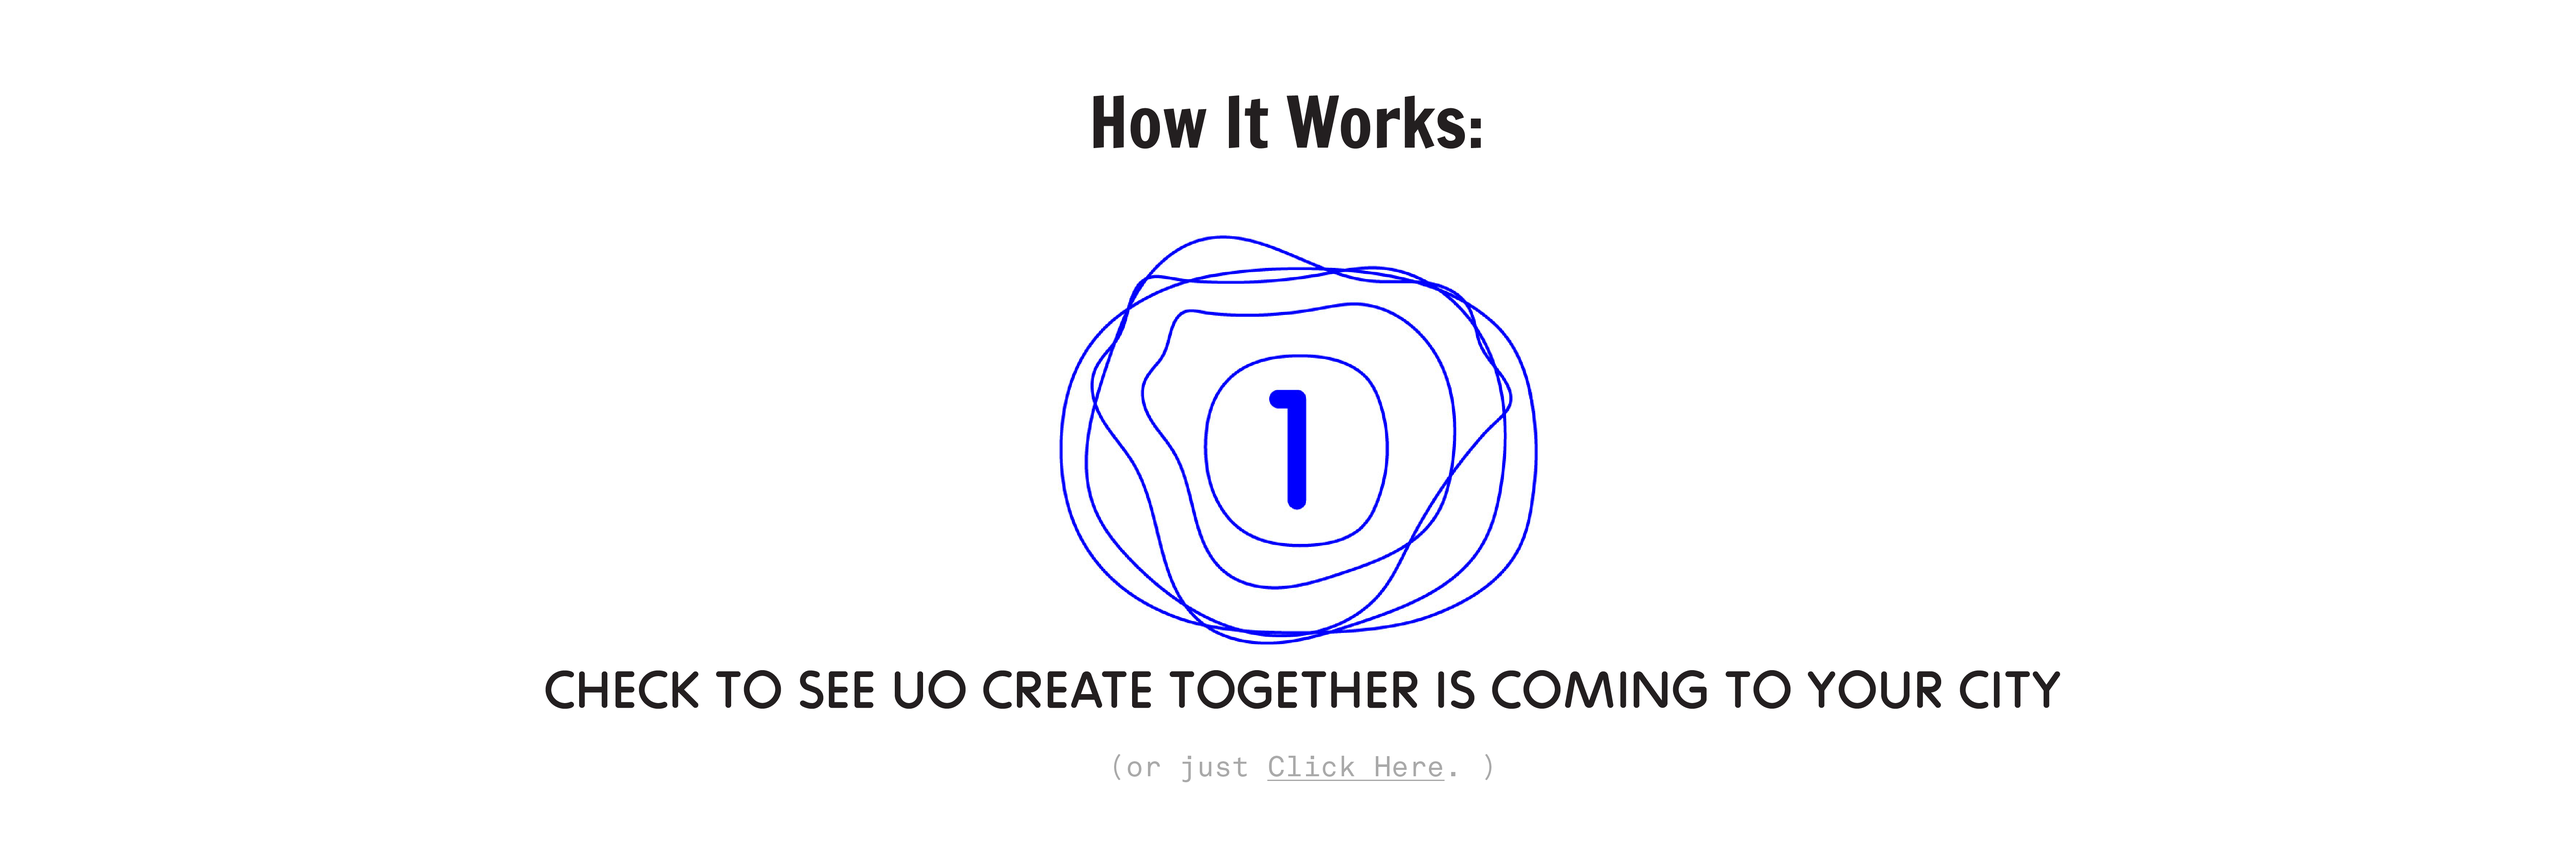
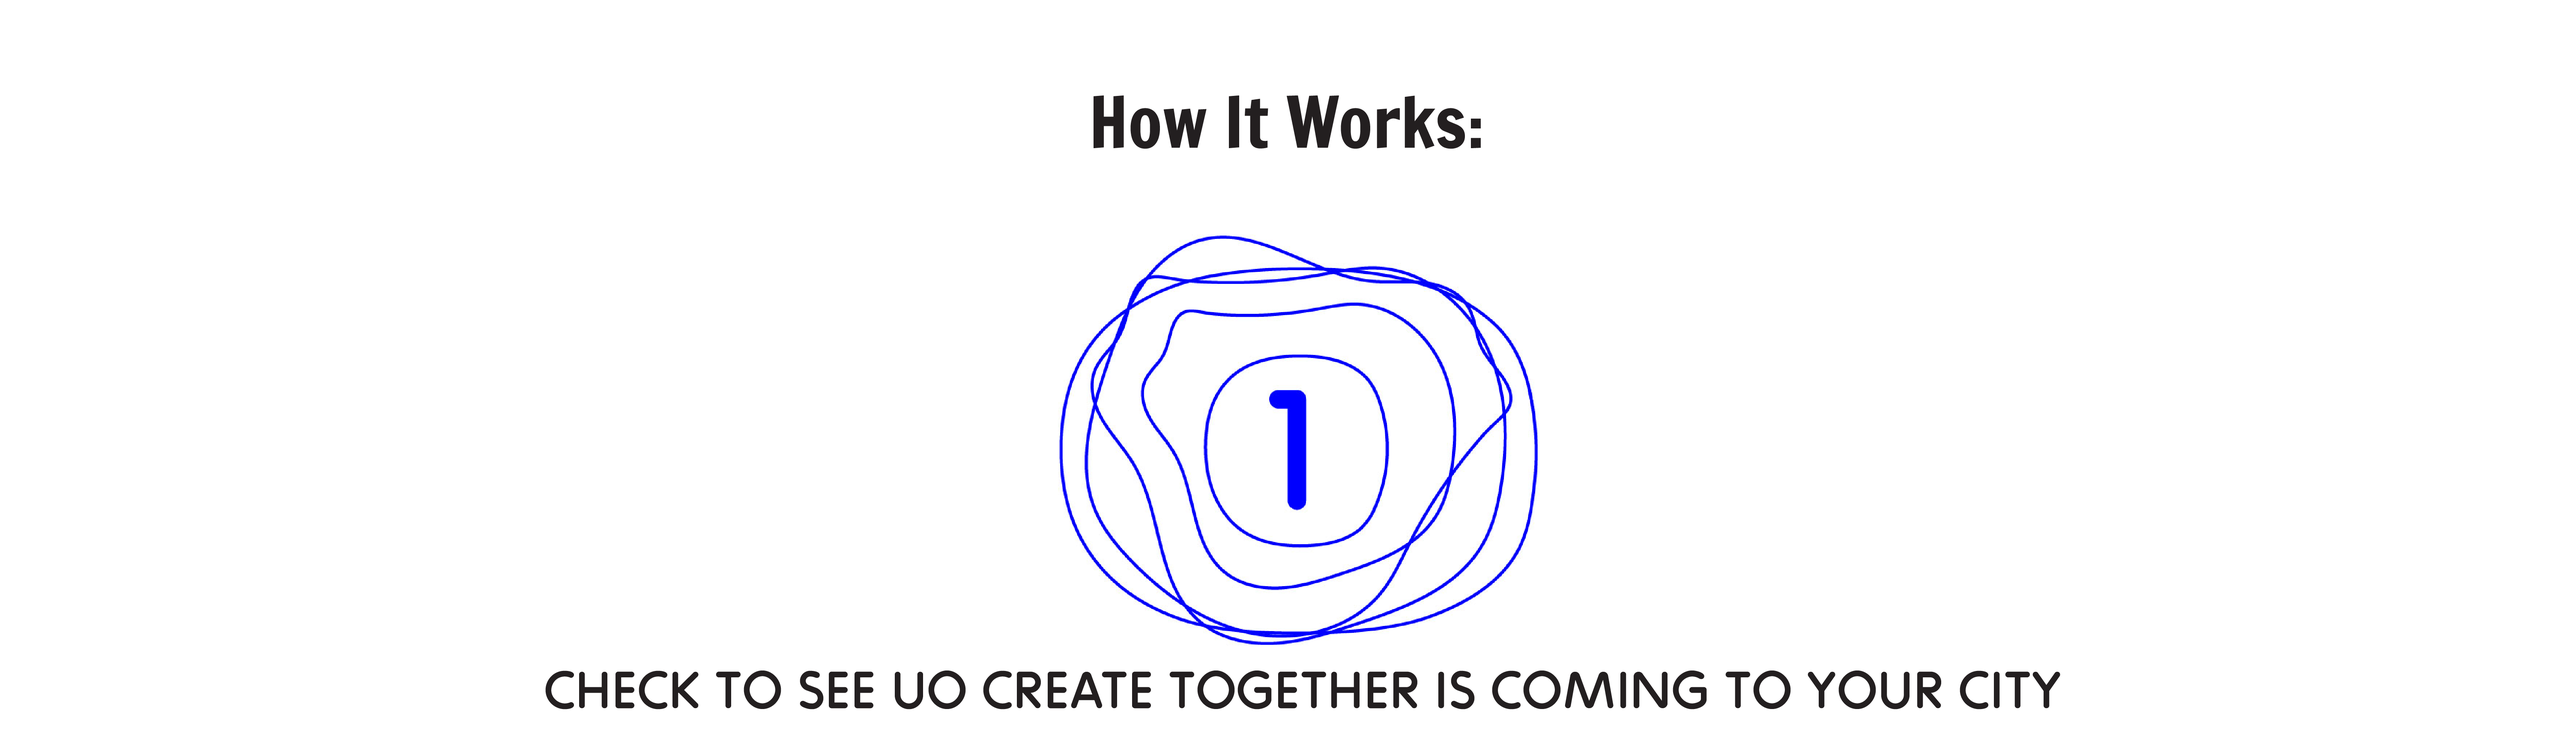
did most of the home page

Changed region(s): [[0.2177, 0.2775, 0.8084, 0.9866], [0.4042, 0.0925, 0.5908, 0.2158]]

diff --git a/index.html b/index.html
@@ -62,33 +62,65 @@ margin: auto;
 color: #ffffff;
 padding-top: 40px;
 } 
+.music { 
+width: 100%; 
+padding-top: -3px; 
+padding-left: -100px; 
+padding-right: -100px; 
+margin: auto; 
+display: block; 
+} 
+.music img { 
+width: 100%; 
+height: 271px; 
+margin: auto;
+} 
 .artists {
 width: 100%; 
 margin: auto; 
 display: block;
+padding-top: 50px; 
 }
 .step1 { 
-width: 90%; 
+width: 80%; 
 margin: auto; 
 display: block; 
 }
-.step2 { 
-width: 90%; 
+.linktype { 
+width: 100%; 
 margin: auto; 
 display: block; 
+padding-bottom: 60px;
+}
+.linktype p { 
+font-family: Courier, serif; 
+font-size: 16px; 
+color: #aaaaaa; 
+text-align: center; 
+} 
+.linktype a { 
+color: #aaaaaa; 
+} 
+.step2 { 
+width: 80%; 
+margin: auto; 
+display: block; 
+padding-top: 40px; 
 } 
 .step3 { 
-width: 90%; 
+width: 80%; 
 margin: auto; 
 display: block;
+padding-top: 40px;
 }
 .step4 { 
-width: 90%; 
+width: 80%; 
 margin: auto; 
 display: block; 
+padding-top: 40px; 
 }
 .step5 { 
-width: 90%; 
+width: 80%; 
 margin: auto; 
 display: block; 
 }
@@ -102,10 +134,49 @@ width: 90%;
 margin: auto; 
 display: block; 
 }
+#collabcities { 
+width: 100%; 
+margin: auto; 
+display: block; 
+padding-top: 90px;
+} 
+/*#wrapper { 
+width: 80%;
+margin: auto; 
+display: block; 
+}*/ 
+h3 { 
+font-family: Francois One, Regular, sans-serif; 
+font-size: 18px; 
+color: #222222;
+width: 80%; 
+margin: auto;
+text-align: center; 
+} 
+#firsthalf { 
+font-family: Courier, serif; 
+font-size: 14px; 
+color: #aaaaaa;
+width: 30%; 
+display: inline; 
+float: left;
+line-height: 30px; 
+padding-left: 350px; 
+} 
+#secondhalf { 
+font-family: Courier, serif; 
+font-size: 14px; 
+color: #aaaaaa;
+width: 30%; 
+display: inline;
+float: left;
+line-height: 30px; 
+} 
 footer img { 
 width: 100%; 
 margin: auto; 
 display: block; 
+padding-top: 150px;
 }
 </style> 
 </head>
@@ -117,14 +188,49 @@ place in 20 cities across the country. We are aiming to bring a local artist and
 taking place in your local UO store. With the ability to listen to great music, create your own customized merchandise from the band and artist, and be able to manipulate the creative space around you - you won't want to miss this!</p>  </div> 
 <!-- <img src="UO Create Web-09.png" /> --> </header> 
 <div class"container">
+<div class="music" ><img src="UO Create Web-18.png" /> </div> 
 <img class="artists" src="UO Create Web-10.png"/> 
 <img class="step1" src="UO Create Web-11.png" />
+<div class="linktype"> <p> (or just <a href="#collabcities"> Click Here.</a> ) </p></div>
 <img class="step2" src="UO Create Web-12.png" /> 
 <img class="step3" src="UO Create Web-13.png" /> 
 <img class="step4" src="UO Create Web-14.png" /> 
 <img class="step5" src="UO Create Web-15.png" /> 
 <img class="wannacome" src="UO Create Web-16.png" /> 
-<a href="statebefore.html"> <img class="collab" src="UO Create Web-17.png" /> </a>  
+<div id="collabcities">
+<h3> Select Your City to View the Collab </h3>  
+<div id="#wrapper"> 
+<section id="firsthalf"> <ul> 
+<li> Austin </li> 
+<li> Baltimore </li> 
+<li> Boston </li> 
+<li> Chicago </li> 
+<li> Columbus </li> 
+<li> Dallas </li> 
+<li> Detroit </li> 
+<li> District of Columbia </li> 
+<li> Denver </li> 
+<li> Indianapolis </li> 
+</ul> 
+</section> 
+<section id="secondhalf"> 
+<ul> 
+<li> Los Angelos </li> 
+<li> Madison </li> 
+<li> Milwaukee </li> 
+<li> Minneapolis </li> 
+<li> New York City </li> 
+<li> Portland </li> 
+<li> Philadelphia </li> 
+<li> Phoenix </li> 
+<li> San Diego </li> 
+<li> Seattle </li> 
+</ul> 
+</div>
+ </div> 
+
+
+<!-- <a href="statebefore.html"> <img class="collab" src="UO Create Web-17.png" /> </a> --> 
 <footer> <img src="UO Create Web-08.png" /></footer> 
 
 
